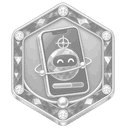
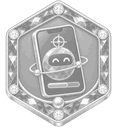
Insígnias: paleta nova da arte (Primeiros passos esmeralda, Altimetria rubi)

diff --git a/chamada-ag-docencia/src/lib/insignias.js b/chamada-ag-docencia/src/lib/insignias.js
@@ -2,11 +2,13 @@
    A regra automática é conferida no servidor (_avaliar_insignias); aqui ficam só nome,
    categoria, texto da regra e a arte. Duas são dadas pela professora. */
 
+/* Cores tiradas da própria arte (paleta de 15/09/2026, depois da inversão dela:
+   Primeiros passos virou esmeralda e Altimetria virou rubi). */
 export const CATEGORIAS = [
-  ['passos', 'Primeiros passos', '#5B9BDA'],
-  ['metodo', 'Método de coleta', '#17A2B8'],
-  ['plani', 'Planimetria', '#2E75B6'],
-  ['alti', 'Altimetria', '#1E6B36'],
+  ['passos', 'Primeiros passos', '#12804A'],
+  ['metodo', 'Método de coleta', '#0E8C9E'],
+  ['plani', 'Planimetria', '#2749B0'],
+  ['alti', 'Altimetria', '#B01B1B'],
   ['missoes', 'Missões', '#B8860B'],
   ['especiais', 'Especiais', '#6B4FA0'],
 ]
